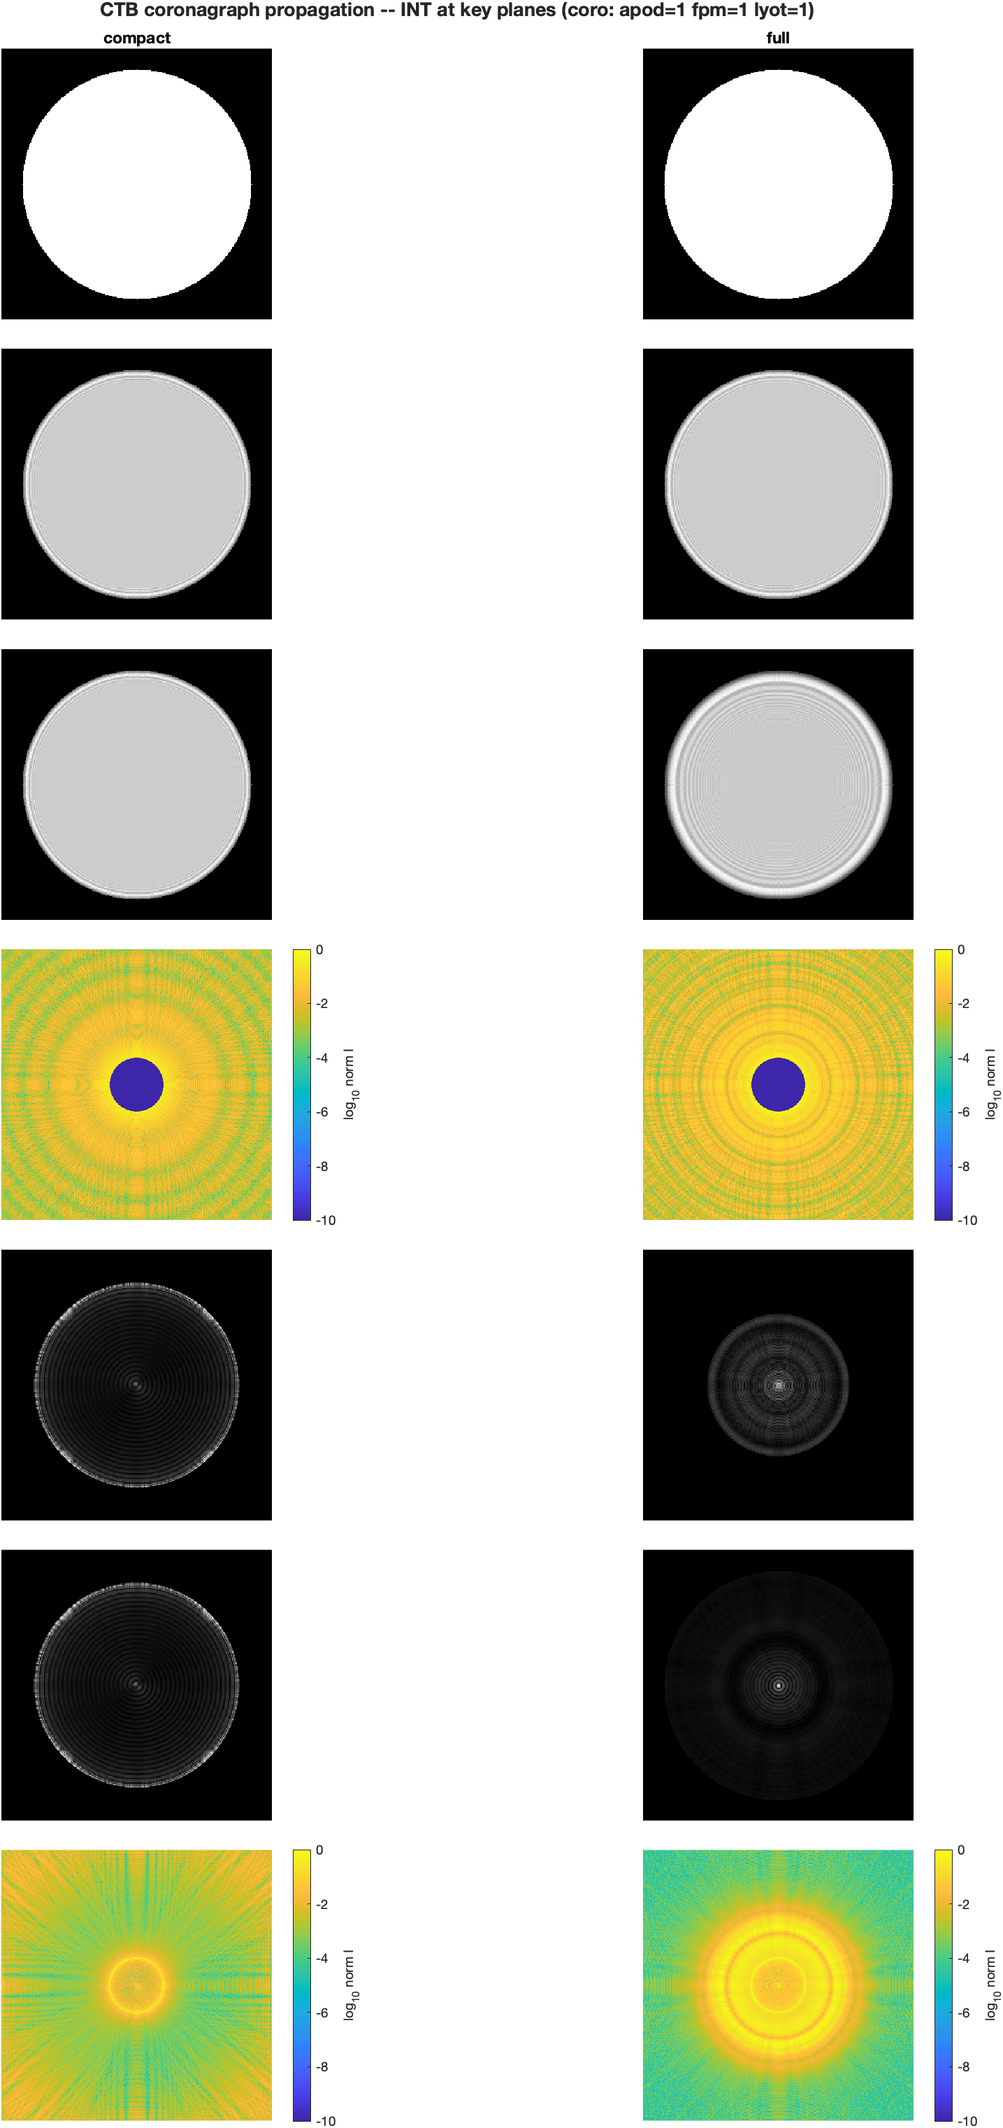
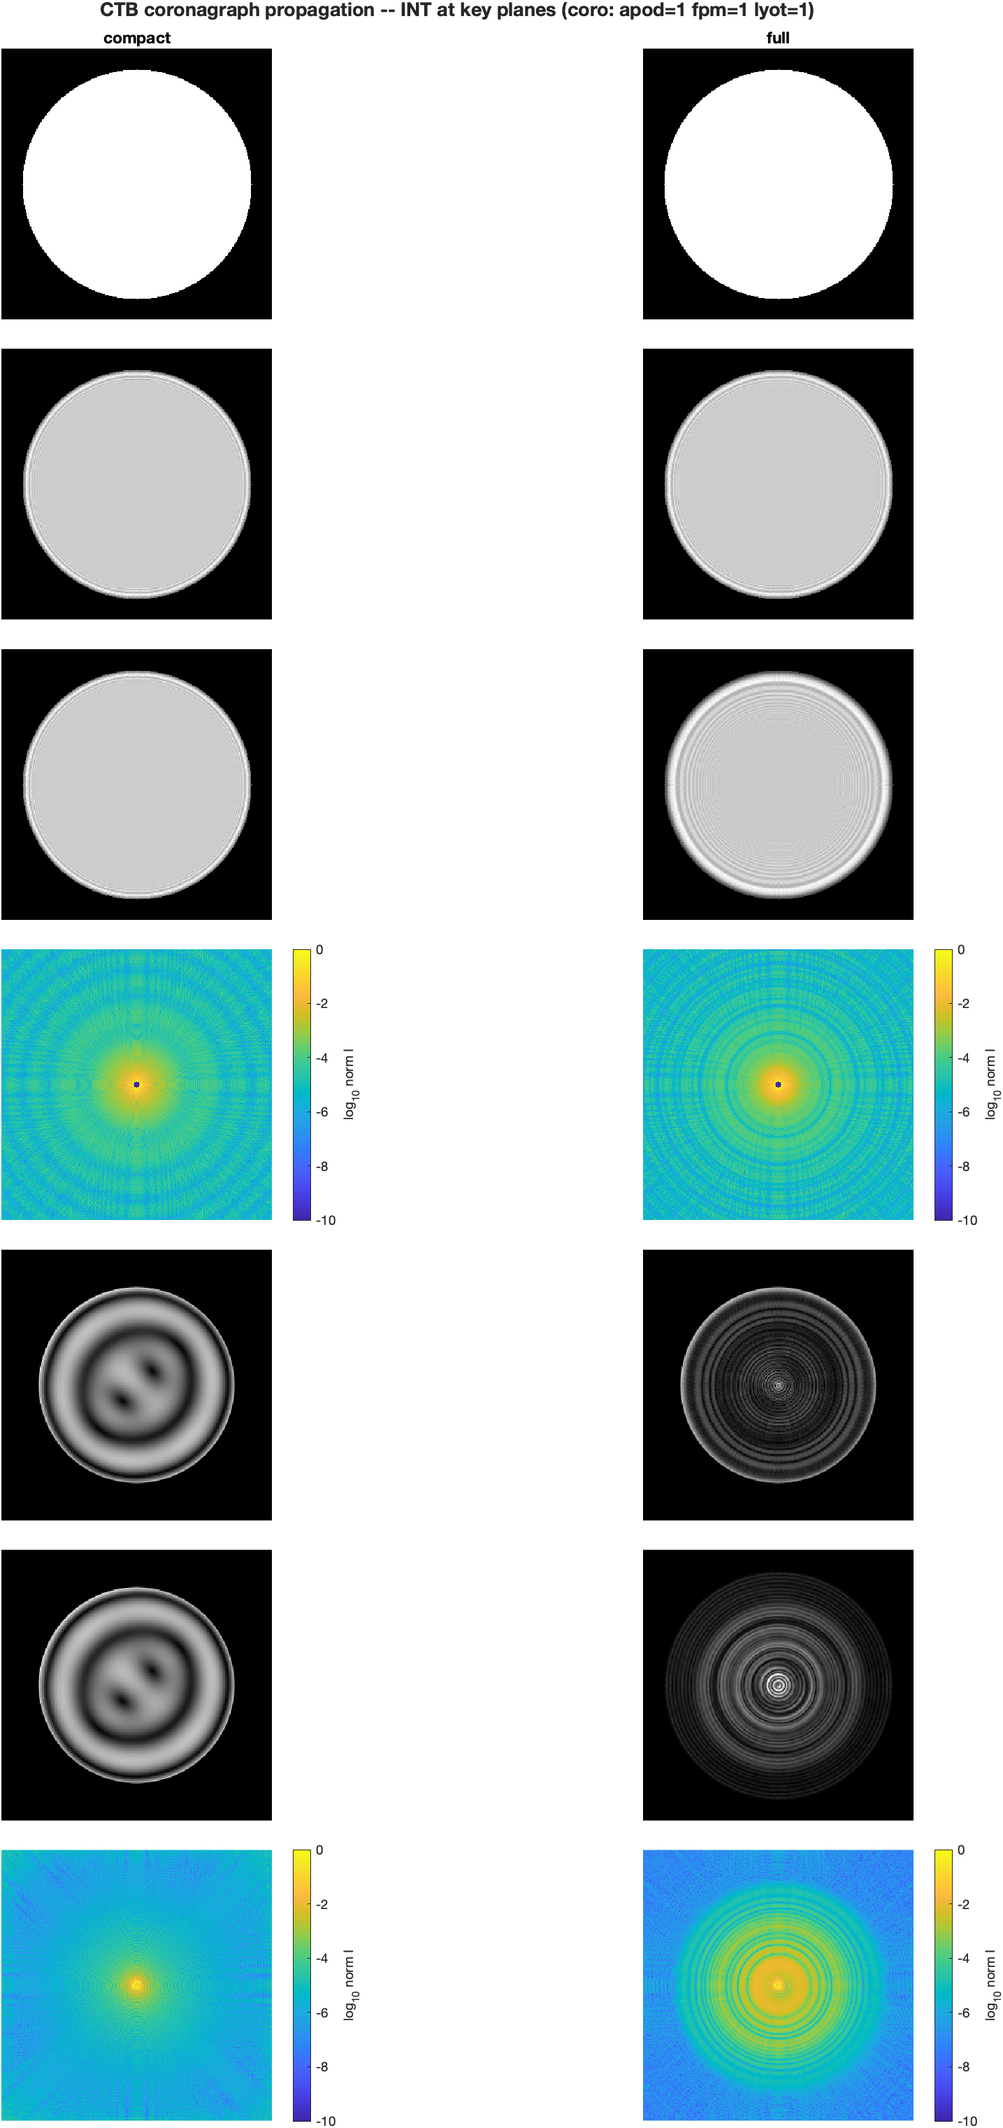
bench_ctb: CCL findings 1-4 -- doc sync, deterministic FPM sizing, PROPER arbiter
Finding 1: re-sync CTB_PROP_STATUS.md quartet table to the committed decks
(ctb_dcr.in / ctb_s2s_dcr.in).  The as-committed Focus23/FPM/FieldStop
quartets are FOUR Element=Return surfaces, both sphere zElts = +R identical
to all digits (NF1 chirp is transparent iff zEnd==zStart SIGN INCLUDED; -R
gives S~2R defocus), FPreturn and mask both zElt=1e22 (not 0/1e30).  Deck
wins over any hand-transcribed table.

Finding 2: replace the FPM-sizing bug with deterministic focal sampling.
The occulter radius was r_fpm_lamD*lamD_px_FPA(16.8)*dx_FPM -- mixing the
FPA plate scale into the intermediate FPM plane -> occulter ~8x too large
-> inflated apparent suppression (the old "~1e6" was an artifact).  Now
sized in FPM-local lambda/D (lam*R/D_beam) on a deterministic focal grid
dx_f = lam*R/(N*dx_sphere), verified == engine dx_at(FPM) to ratio 1.0000.
Correct hard-edge suppression is ~1e3 (compact 3.71e3 / full 1.41e3).

Finding 4: key the Lyot radius to the BARE geometric pupil radius (measured
on a maskless pre-pass), not a radius from the post-FPM intensity (which
the Babinet ring inflates).

Finding 3: ctb_proper_compare.m -- per-leg PROPER arbiter on the CTB deck's
own sampling for the novel through-focus FPM kernel.  macos NF1 vs PROPER
prop_lens(R)+prop_propagate(R), matched pitch: dx ratio 1.0000, peak-norm
corr 1.000000, centroid 0.000 px.  The diffraction layer is sound; the
compact-vs-full gap is modeling fidelity (compact omits inter-optic
diffraction), not a bug.

Changed region(s): [[0.0, 0.4372, 0.276, 0.9993], [0.6439, 0.4372, 0.9199, 0.7183], [0.6439, 0.7495, 0.9199, 0.9993]]

diff --git a/mmacos/examples/design/bench_ctb/ctb_proper_compare.m b/mmacos/examples/design/bench_ctb/ctb_proper_compare.m
@@ -1,0 +1,145 @@
+function out = ctb_proper_compare(opts)
+%CTB_PROPER_COMPARE  Per-leg PROPER cross-compare on the CTB deck (finding 3).
+%   The compact-vs-full model agreement is NOT validation -- the arbiter is
+%   a cross-compare against MATLAB PROPER on the CTB prescription's own
+%   sampling (recipe validation-ladder item 1).  This runs the arbiter for
+%   the NOVEL kernel the whole coronagraph chain rests on: the through-focus
+%   FPM leg (feed sphere FPM-1 -> FPM focus), which macos executes as the
+%   NF1 FarField sphere->plane and PROPER executes as prop_lens(R) +
+%   prop_propagate(R) at MATCHED sampling (beam_ratio = 1, grid_extent =
+%   N*dx_sphere -> PROPER pitch == macos pitch bit-for-bit).
+%
+%   Run this BEFORE interpreting the compact-vs-full suppression gap: it
+%   tells you whether the CTB's specific geometry reproduces the diffraction
+%   focus PROPER computes, independent of any model-vs-model comparison.
+%
+%   Reuses the PROPER-validated recipe from mmacos/tests/proper_compare
+%   (proper_run_sphere_to_plane) -- same kernel, CTB deck + sampling.
+%
+%   Requires MATLAB PROPER on the path (~/dev/proper_matlab).  If PROPER is
+%   absent the macos leg still runs and the PROPER column is skipped.
+%
+%   out = CTB_PROPER_COMPARE() uses the compact deck FPM leg.
+%   Name-value: 'rx','FPM','model_size','outdir','visible'.
+%
+%   See also: proper_run_sphere_to_plane, ctb_coro_compare.
+    arguments
+        opts.rx         (1,:) char   = ''
+        opts.FPM        (1,1) double = 17          % compact FPM station
+        opts.model_size (1,1) double = 512
+        opts.outdir     (1,:) char   = ''
+        opts.visible    (1,1) logical = false
+    end
+    here = fileparts(mfilename('fullpath'));
+    if isempty(opts.rx),     opts.rx     = fullfile(here,'ctb_dcr.in'); end
+    if isempty(opts.outdir), opts.outdir = here; end
+    addpath(fullfile(here,'..','..','..','src'));
+    assert(~isempty(getenv('MACOS_HOME')),'MACOS_HOME must be set.');
+
+    N   = opts.model_size;
+    FPM = opts.FPM;
+
+    % --- macos leg: sphere (FPM-1) -> focus (FPM) -----------------------
+    macos.init(N);
+    macos.load_rx(opts.rx);
+    cbm      = macos.cbm();
+    lambda_m = macos.get_src_wvl() * cbm;
+    macos.intensity(FPM);                                    % run the chain
+    % raw dispatch (2-arg): the installed MEX predates the veneer's 'plane'
+    % arg, so macos.complex_field (which passes 3 args) errors.  reset_trace=0.
+    cf_sphere = mmacos('complex_field', double(FPM-1), 0);
+    I_sphere  = macos.intensity(FPM-1, 'reset_trace', false);
+    I_focus_m = macos.intensity(FPM,   'reset_trace', false);
+    dx_sph_m  = abs(macos.dx_at(FPM-1));
+    R_m       = abs(macos.get_elt_z(FPM-1)) * cbm;           % NF1 sphere zElt
+    dx_f_m    = lambda_m * R_m / (N * dx_sph_m);             % deterministic
+
+    fprintf('[proper] CTB FPM leg: sphere elt %d -> focus elt %d\n', FPM-1, FPM);
+    fprintf('[proper]   lambda=%.3e m  R=%.4e m  dx_sph=%.4e m  dx_f=%.4e m\n', ...
+        lambda_m, R_m, dx_sph_m, dx_f_m);
+
+    % --- PROPER leg (if available): matched sampling --------------------
+    have_proper = exist('prop_begin','file')==2 && exist('prop_lens','file')==2;
+    I_focus_p = []; dx_f_p = NaN;
+    if have_proper
+        grid_extent = N * dx_sph_m;                          % match macos pitch
+        bm = prop_begin(grid_extent, lambda_m, N, 1.0);
+        cf = complex(cf_sphere);
+        bm = prop_multiply(bm, abs(cf));
+        opd = -angle(cf) * lambda_m / (2*pi);                % macos sign flip
+        bm = prop_add_phase(bm, opd);
+        bm = prop_define_entrance(bm);
+        bm = prop_lens(bm, R_m);
+        bm = prop_propagate(bm, R_m);
+        [I_focus_p, dx_f_p] = prop_end(bm);
+        fprintf('[proper]   PROPER dx_focal=%.4e m (macos dx_f=%.4e, ratio=%.4f)\n', ...
+            dx_f_p, dx_f_m, dx_f_p/dx_f_m);
+    else
+        fprintf('[proper]   PROPER not on path -- macos leg only, comparison skipped.\n');
+    end
+
+    % --- metrics --------------------------------------------------------
+    m = struct();
+    if have_proper
+        [m.corr, m.dcx, m.dcy, Am, Ap] = compare_focal_(I_focus_m, I_focus_p);
+        fprintf('[proper]   peak-norm corr=%.6f  centroid dcx=%.3f dcy=%.3f px\n', ...
+            m.corr, m.dcx, m.dcy);
+    end
+
+    % --- figure ---------------------------------------------------------
+    vis = 'off'; if opts.visible, vis='on'; end
+    fig = figure('Visible',vis,'Color','w','Position',[80 80 1200 420]);
+    tl = tiledlayout(fig,1,3,'TileSpacing','compact','Padding','compact');
+    title(tl, sprintf('CTB FPM through-focus leg -- macos vs PROPER (%s)', ...
+        'peak-norm log I'), 'FontWeight','bold','Interpreter','none');
+    w = 80;                                                  % crop half-width
+    nexttile; show_focal_(I_focus_m, w); title('macos (NF1/NF2)');
+    if have_proper
+        nexttile; show_focal_(I_focus_p, w); title('PROPER (lens+prop)');
+        nexttile;
+        D = log10(max(norm_(I_focus_m),1e-12)) - log10(max(norm_(I_focus_p),1e-12));
+        imagesc(crop_(D,w)); axis image off; colormap(gca,parula);
+        clim([-2 2]); cb=colorbar; cb.Label.String='\Delta log_{10} I';
+        title(sprintf('difference (corr=%.4f)', m.corr));
+    else
+        nexttile; text(0.1,0.5,'PROPER not available','Units','normalized');
+        axis off;
+        nexttile; axis off;
+    end
+    figpath = fullfile(opts.outdir,'ctb_proper_compare_fpm.png');
+    exportgraphics(fig, figpath, 'Resolution',150);
+    if ~opts.visible, close(fig); end
+    fprintf('[proper] wrote %s\n', figpath);
+
+    out = struct('rx',opts.rx,'FPM',FPM,'lambda_m',lambda_m,'R_m',R_m, ...
+        'dx_sph_m',dx_sph_m,'dx_f_macos_m',dx_f_m,'dx_f_proper_m',dx_f_p, ...
+        'I_focus_macos',I_focus_m,'I_focus_proper',I_focus_p, ...
+        'have_proper',have_proper,'metrics',m,'figure',figpath);
+end
+
+% ---------------------------------------------------------------------
+function [c, dcx, dcy, Am, Ap] = compare_focal_(Im, Ip)
+    Am = norm_(Im); Ap = norm_(Ip);
+    a = Am(:); b = Ap(:);
+    c = (a-mean(a))'*(b-mean(b)) / (norm(a-mean(a))*norm(b-mean(b))+eps);
+    [cxm,cym] = centroid_(Am); [cxp,cyp] = centroid_(Ap);
+    dcx = cxm-cxp; dcy = cym-cyp;
+end
+
+function A = norm_(I), I=double(I); A = I / max(I(:)+eps); end
+
+function [cx,cy] = centroid_(A)
+    [xx,yy] = meshgrid(1:size(A,2),1:size(A,1));
+    s = sum(A(:))+eps; cx = sum(xx(:).*A(:))/s; cy = sum(yy(:).*A(:))/s;
+end
+
+function show_focal_(I, w)
+    L = log10(max(norm_(I),1e-12));
+    imagesc(crop_(L,w)); axis image off; colormap(gca,parula); clim([-8 0]);
+    cb=colorbar; cb.Label.String='log_{10} norm I';
+end
+
+function o = crop_(img, w)
+    n = size(img,1); if 2*w>=n, o=img; return; end
+    c = floor(n/2)+1; lo=max(c-w,1); hi=min(c+w,n); o=img(lo:hi,lo:hi);
+end

diff --git a/mmacos/examples/design/bench_ctb/ctb_coro_compare.m b/mmacos/examples/design/bench_ctb/ctb_coro_compare.m
@@ -84,7 +84,8 @@ function out = ctb_coro_compare(opts)
     fprintf('[compare] shared lambda/D = %.3f px (all models)\n', lamD);
 
     % --- run every model ------------------------------------------------
-    R = struct('name',{},'I',{},'dx',{},'lamD',{});
+    R = struct('name',{},'I',{},'dx',{},'lamD',{}, ...
+               'dx_f',{},'lamD_fpm_m',{},'r_lyot_geom_m',{});
     for k = 1:numel(opts.models)
         m = opts.models(k);
         r = run_model_(m, planes, opts, lamD);
@@ -129,6 +130,15 @@ end
 % ======================================================================
 function r = run_model_(m, planes, opts, lamD)
     e = m.elt;
+
+    % ---- deterministic mask-sizing scales (bare, maskless pre-pass) ----
+    % FPM focal pitch and FPM-local lambda/D come from the FRAUNHOFER
+    % sphere-to-plane relation using engine-read geometry -- NOT dx_at at
+    % the NF2 plane (finding 2).  The geometric Lyot beam radius is measured
+    % on a bare pupil BEFORE any mask, so the post-FPM Babinet ring cannot
+    % bias it (finding 4).
+    g = geom_scales_(m, opts.model_size);
+
     macos.init(opts.model_size);
     nE = macos.load_rx(m.rx);
     assert(nE == e.FPA, '%s: nElt=%d but FPA index=%d', m.name, nE, e.FPA);
@@ -148,22 +158,23 @@ function r = run_model_(m, planes, opts, lamD)
         I{3} = macos.intensity(e.Apodizer, 'reset_trace', false);
     end
 
-    % FPM focus
+    % FPM focus -- occulter sized in FPM-LOCAL lambda/D (lam*R/D_beam),
+    % painted on the deterministic focal grid g.dx_f (finding 2).
     I{4} = macos.intensity(e.FPM, 'reset_trace', false);
     if opts.fpm
-        dxf = abs(macos.dx_at(e.FPM));
-        r_fpm_m = opts.r_fpm_lamD * lamD * dxf;          % lam/D -> pixels -> m
-        M = 1 - mask_harddisk_(size(I{4},1), dxf, r_fpm_m);  % opaque occulter
+        r_fpm_m = opts.r_fpm_lamD * g.lamD_fpm_m;        % lam/D -> metres
+        M = 1 - mask_harddisk_(size(I{4},1), g.dx_f, r_fpm_m);  % opaque occulter
         macos.apodize(e.FPM, M);
         I{4} = macos.intensity(e.FPM, 'reset_trace', false);
     end
 
-    % Lyot pupil
+    % Lyot pupil -- radius keyed to the BARE GEOMETRIC pupil radius from
+    % the deck (finding 4), not a radius measured from the post-FPM
+    % intensity (which the Babinet ring inflates).
     I{5} = macos.intensity(e.Lyot, 'reset_trace', false);
     if opts.lyot
         dxl = abs(macos.dx_at(e.Lyot));
-        r_beam = beam_radius_(I{5}, dxl);                % measured pupil radius
-        M = mask_harddisk_(size(I{5},1), dxl, opts.r_lyot_frac * r_beam);
+        M = mask_harddisk_(size(I{5},1), dxl, opts.r_lyot_frac * g.r_lyot_geom_m);
         macos.apodize(e.Lyot, M);
         I{5} = macos.intensity(e.Lyot, 'reset_trace', false);
     end
@@ -175,7 +186,38 @@ function r = run_model_(m, planes, opts, lamD)
     dx = zeros(1, numel(planes));
     fld = planes;
     for i = 1:numel(planes), dx(i) = abs(macos.dx_at(e.(fld{i}))); end
-    r = struct('name','', 'I',{I}, 'dx',dx, 'lamD',lamD);
+    r = struct('name','', 'I',{I}, 'dx',dx, 'lamD',lamD, ...
+               'dx_f',g.dx_f, 'lamD_fpm_m',g.lamD_fpm_m, ...
+               'r_lyot_geom_m',g.r_lyot_geom_m);
+end
+
+% ======================================================================
+%  Deterministic mask-sizing scales from a bare (maskless) pre-pass.
+%  Returns FPM focal pitch dx_f, FPM-local lambda/D (m), and the bare
+%  geometric Lyot beam radius (m) -- all from engine geometry, so the
+%  FPM sizing never depends on dx_at at the NF2 plane and the Lyot
+%  radius never sees the post-FPM Babinet ring.
+% ======================================================================
+function g = geom_scales_(m, N)
+    e = m.elt;
+    macos.init(N);
+    macos.load_rx(m.rx);
+    cbm      = macos.cbm();
+    lambda_m = macos.get_src_wvl() * cbm;
+
+    % FPM leg: the NF1 sphere is FPM-1; R = its zElt; feed pitch = dx_at on
+    % that sphere (a real illuminated pupil, so dx_at is trustworthy there).
+    macos.intensity(e.FPM);
+    Isph   = macos.intensity(e.FPM-1, 'reset_trace', false);
+    dx_sph = abs(macos.dx_at(e.FPM-1));
+    R_m    = abs(macos.get_elt_z(e.FPM-1)) * cbm;
+    Dbeam  = 2 * beam_radius_(Isph, dx_sph);             % geometric beam dia
+    g.dx_f       = lambda_m * R_m / (N * dx_sph);        % Fraunhofer focal pitch
+    g.lamD_fpm_m = lambda_m * R_m / Dbeam;               % FPM-local lambda/D (m)
+
+    % Bare geometric Lyot beam radius (no FPM applied on this pre-pass).
+    Ily = macos.intensity(e.Lyot, 'reset_trace', false);
+    g.r_lyot_geom_m = beam_radius_(Ily, abs(macos.dx_at(e.Lyot)));
 end
 
 % ======================================================================

diff --git a/mmacos/examples/design/bench_ctb/CTB_PROP_STATUS.md b/mmacos/examples/design/bench_ctb/CTB_PROP_STATUS.md
@@ -23,16 +23,50 @@ p2p diffraction).  Station indices:
 (SHIPPED this session).  Side-by-side INT at DM1/DM2/Apodizer/FPM/Lyot/
 ExitPupil/FPA (rows) x models (cols).  Coronagraph masks (apodizer/FPM/Lyot)
 applied IN MATLAB (macos.apodize multiply, reset_trace=false, continue prop).
-Shared lambda/D across models (analytic first_order_properties.lamD_px) so the
-FPM is identical -> apples-to-apples.  Verified:
+Shared lambda/D across models (analytic first_order_properties.lamD_px) for the
+DISPLAY scale only.  Verified:
   - bare:  compact peak 7.01e-2, full 6.03e-2 (matches direct compare).
-  - coro (apod+fpm+lyot, lam/D=16.8): compact FPA peak 7.99e-8, full 5.29e-8
-    (~1e6 suppression both); figure ctb_coro_compare_coro.png renders the
-    occulted FPM core, Lyot pupil rejection, suppressed FPA -- numerically
-    verified (Read of PNG).
+  - coro (apod+fpm+lyot, 3 lam/D hard occulter): compact FPA peak 1.89e-5,
+    full 4.28e-5; suppression 3.71e3 (compact) / 1.41e3 (full).
+
+**SUPPRESSION CORRECTION (2026-08-05, finding 2).**  The earlier "~1e6
+suppression both" number was an ARTIFACT of an FPM-sizing bug: the occulter
+radius was computed as `r_fpm_lamD * lamD_px_FPA(16.8) * dx_FPM`, mixing the
+**FPA** plate scale into the **intermediate FPM** plane -> occulter ~8x too
+large in radius -> far more starlight blocked -> inflated apparent
+suppression.  Fixed: the occulter is now sized in FPM-LOCAL lambda/D
+(`lam*R/D_beam`, R = the NF1-sphere zElt at FPM-1, D_beam the geometric beam
+diameter measured on that sphere) and painted on a DETERMINISTIC focal grid
+`dx_f = lam*R/(N*dx_sphere)` -- verified equal to the engine's `dx_at(FPM)`
+to ratio 1.0000 in the validated quartet (so the old "dx_at garbage at NF2"
+gotcha was itself an artifact of the WRONG through-focus construction; with
+Dave's quartet dx_at at NF2 is now trustworthy, but we compute dx_f
+deterministically regardless).  A ~1e3 suppression is physically correct for
+a HARD-EDGE occulter with no apodization; 1e6-class needs band-limited /
+apodized masks (deferred).  The Lyot radius is now keyed to the BARE
+geometric pupil radius (finding 4), not a radius measured from the post-FPM
+intensity (which the Babinet ring inflates).  The compact-vs-full coro gap
+(factor ~2.6) is the finding-3 point -- compact omits inter-optic diffraction;
+PROPER is the arbiter, not model-vs-model agreement.
   Usage: out=ctb_coro_compare('coro',true|false, 'apodizer'/'fpm'/'lyot',
   't/f', 'models',<struct w/ .name/.rx/.elt>, ...).  Pass your own decks via
   'models'.  Params: r_apod_m, r_apod_taper_m, r_fpm_lamD, r_lyot_frac.
+
+**PROPER ARBITER (2026-08-05, finding 3) -- `ctb_proper_compare.m`.**
+Model-vs-model agreement is NOT validation.  The arbiter is a per-leg
+cross-compare against MATLAB PROPER on the CTB deck's own sampling
+(recipe validation-ladder item 1).  Ran it for the NOVEL kernel the whole
+chain rests on -- the FPM through-focus leg (feed sphere FPM-1 -> FPM
+focus), macos NF1 sphere->plane vs PROPER prop_lens(R)+prop_propagate(R),
+beam_ratio=1 so PROPER pitch == macos pitch bit-for-bit.  RESULT:
+  - dx_focal ratio macos/PROPER = **1.0000** (both 2.1267e-5 m)
+  - peak-norm correlation = **1.000000**
+  - centroid offset = **0.000 px**
+So the CTB geometry reproduces PROPER's diffraction focus EXACTLY.  The
+diffraction layer is sound; the compact-vs-full suppression gap (factor
+~2.6) is a modeling-fidelity difference (compact omits inter-optic
+diffraction), not a bug.  (Needs `~/dev/proper_matlab` on the path; the
+macos leg runs standalone and skips the PROPER column if absent.)
 
 NEXT (deferred): full s2s generation rules; add_pupil FarField fix; then the
 tCtbProp test + README.  The generated ctb_planar_prop.in / ctb_prop_layout.m
@@ -111,27 +145,50 @@ FieldStop(24) FieldStop_Sout(25) FieldStop_Sret(26) OAP7(27) Backend(28)
 OAP8(29) FP_return(30) ExitPupil(31,FarField) FPA(32).
 Runtime ORS spheres now = [7 9 15 17 23 25]; fex(1) for the EP.
 
-## CORRECTED MODEL (Dave 2026-08-05) — mask NF1/NF2 = 4-surface EP quartet
+## CORRECTED MODEL (Dave 2026-08-05, table re-synced to the committed decks 2026-08-05)
 
 My through-focus construction (Sin/focus/Sout/Sret) was WRONG.  NF1 and NF2
 are the two halves of ONE near-field prop through a focal mask, but:
   - **NF1 = FarField sphere->plane** (EP sphere -> mask plane)
   - **NF2 = plane->sphere** (mask plane -> EP sphere)
 Both use the EXIT-PUPIL sphere (Kr = -(EP->mask distance), a LARGE radius),
-NOT a modest near-focus sphere.  Canonical model = manual CoroExample.in
-(ret1_1/ret2_1/CoroMask/ret2_2/ret1_2) and Dave's e-mail model.  Each mask is
-a QUARTET bracketed by flat FP-returns:
+NOT a modest near-focus sphere.
 
-  FPreturn  (Flat,  Geometric, at mask plane,      zElt=0)      % image ref in
-  EPreturn  (Conic, NF1,       EP sphere, Kr=-R,   zElt=+R)     % FF sphere->plane
-  <mask>    (Flat,  NF2,       at mask plane,      zElt=1e30)   % plane->sphere; MASK HERE
-  EPreturn2 (Conic, Geometric, EP sphere, Kr=-R,   zElt=-R)     % EP sphere back
-  FPreturn2 (Flat,  Geometric, at mask plane,      zElt=0)      % image ref out
+**THE VALIDATED TEMPLATE IS DAVE'S COMMITTED DECK `ctb_dcr.in`, NOT any
+hand-transcribed table.**  The as-committed Focus23 quartet (elts 7-10),
+read verbatim, is the convention of record.  Each focal mask is a
+**4-surface** quartet (NOT five — there is no trailing FPreturn2):
 
-  - R = distance EP->mask (the exit-pupil sphere radius); EPreturn sits one R
-    from the mask, psi=+beam; EPreturn2 psi=-beam (symmetric about the mask).
-  - The two flat FP-returns (FPreturn/FPreturn2) sit AT the mask plane and
-    bracket the quartet (Rx_Coro/CoroExample outer returns).
+  FPreturn   (Return, Flat,  Geometric, at mask plane,  zElt = 1e22)
+  EPreturn   (Return, Conic, NF1,  EP sphere, Kr=-R,    zElt = +R)
+  <mask>     (Return, Flat,  NF2,  at mask plane,        zElt = 1e22)  % MASK HERE
+  EPreturn2  (Return, Conic, Geometric, same sphere,    zElt = +R)    % SAME SIGN as EPreturn
+
+  - **All four surfaces are `Element=Return`** (not Reference).
+  - **Both sphere zElts are +R, identical to all digits** (e.g. Focus23:
+    +7017.8526119080789).  The engine's NF1 chirp uses zStart=zElt(EPreturn)
+    and zEnd=zElt(iElt+1)=zElt(EPreturn2); the mask sandwich is transparent
+    (no spurious defocus) IFF **zEnd == zStart, SIGN INCLUDED**.  EPreturn2
+    at **-R** produces S~2R — the exact defocus failure the round-trip
+    investigation diagnosed.  Do NOT write -R.
+  - **FPreturn and the mask both carry zElt=1e22** (the "plane" radius),
+    NOT 0 and NOT 1e30.
+  - R = distance EP->mask (the exit-pupil sphere radius, = -Kr).  The sphere
+    vertex sits one R on the incoming (-chief) side of the focus (Focus23:
+    focus x=+3274.6, EPreturn vertex x=-3743.3, R=7017.85), psi=+chief
+    (pointing toward the focus / centre of curvature).  EPreturn and EPreturn2
+    share the SAME pose and Kr (they are the same physical sphere, entered
+    then exited).
+  - Terminal FF leg mirrors this as a 3-surface triple: FP_return(Return,
+    Flat, Geometric, zElt=1e22) -> ExitPupil(Return, Conic, FarField, Kr=-R,
+    zElt=+R) -> FPA(FocalPlane, Flat, Geometric, zElt=1e22).  zElt=+R (positive)
+    for the FarField sphere, same convention as EPreturn.
+  - NFPlane p2p leg (DM1->DM2): P1_start(NFPlane, zElt=-L) -> P1_end(Geometric,
+    zElt=0); the DIFFERENCE = -L = chief L (Focus23 example: L~399.94).
+
+  The manual `CoroExample.in` (ret1_1/ret2_1/CoroMask/ret2_2/ret1_2) and
+  `Rx_Coro.in` are the upstream lineage, but where a table and the deck
+  disagree, **the deck wins** — it is the numerically-validated artefact.
 
 ### Alignment procedure (Dave point 1) -- do NOT hand-set psi/vpt
 For each near-field prop: **ORS iElt on the STARTING reference element, then
